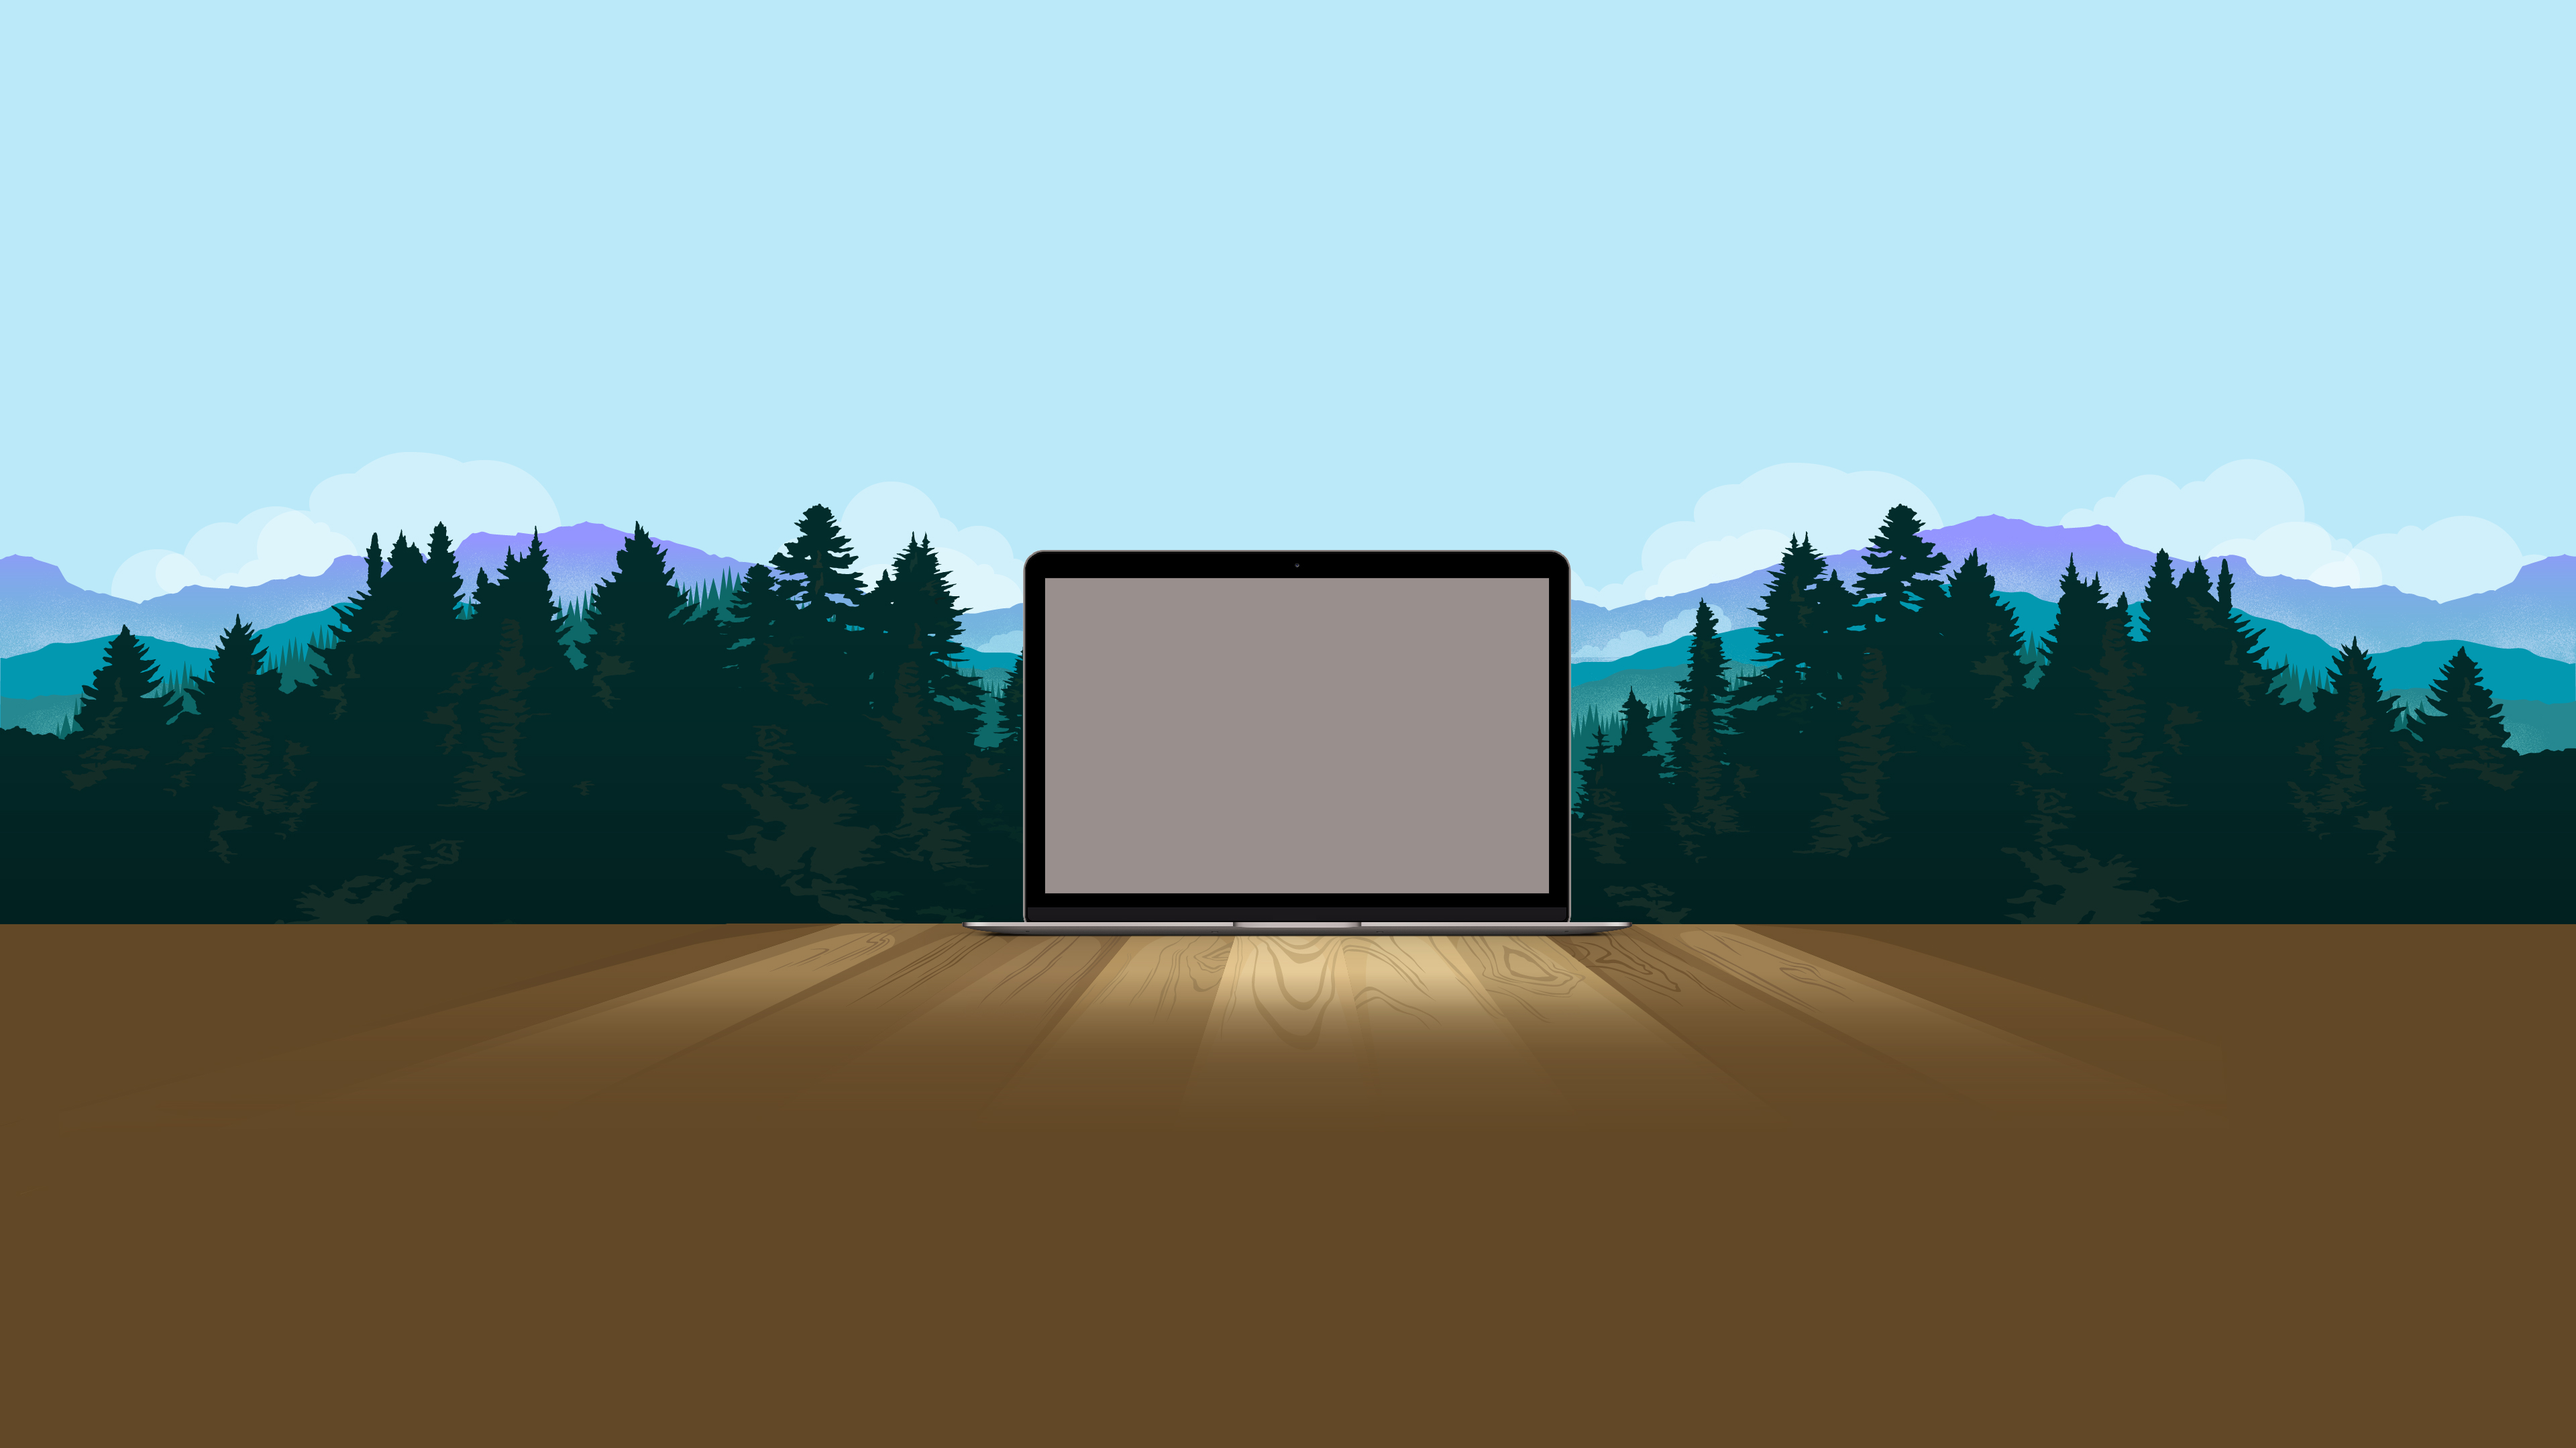
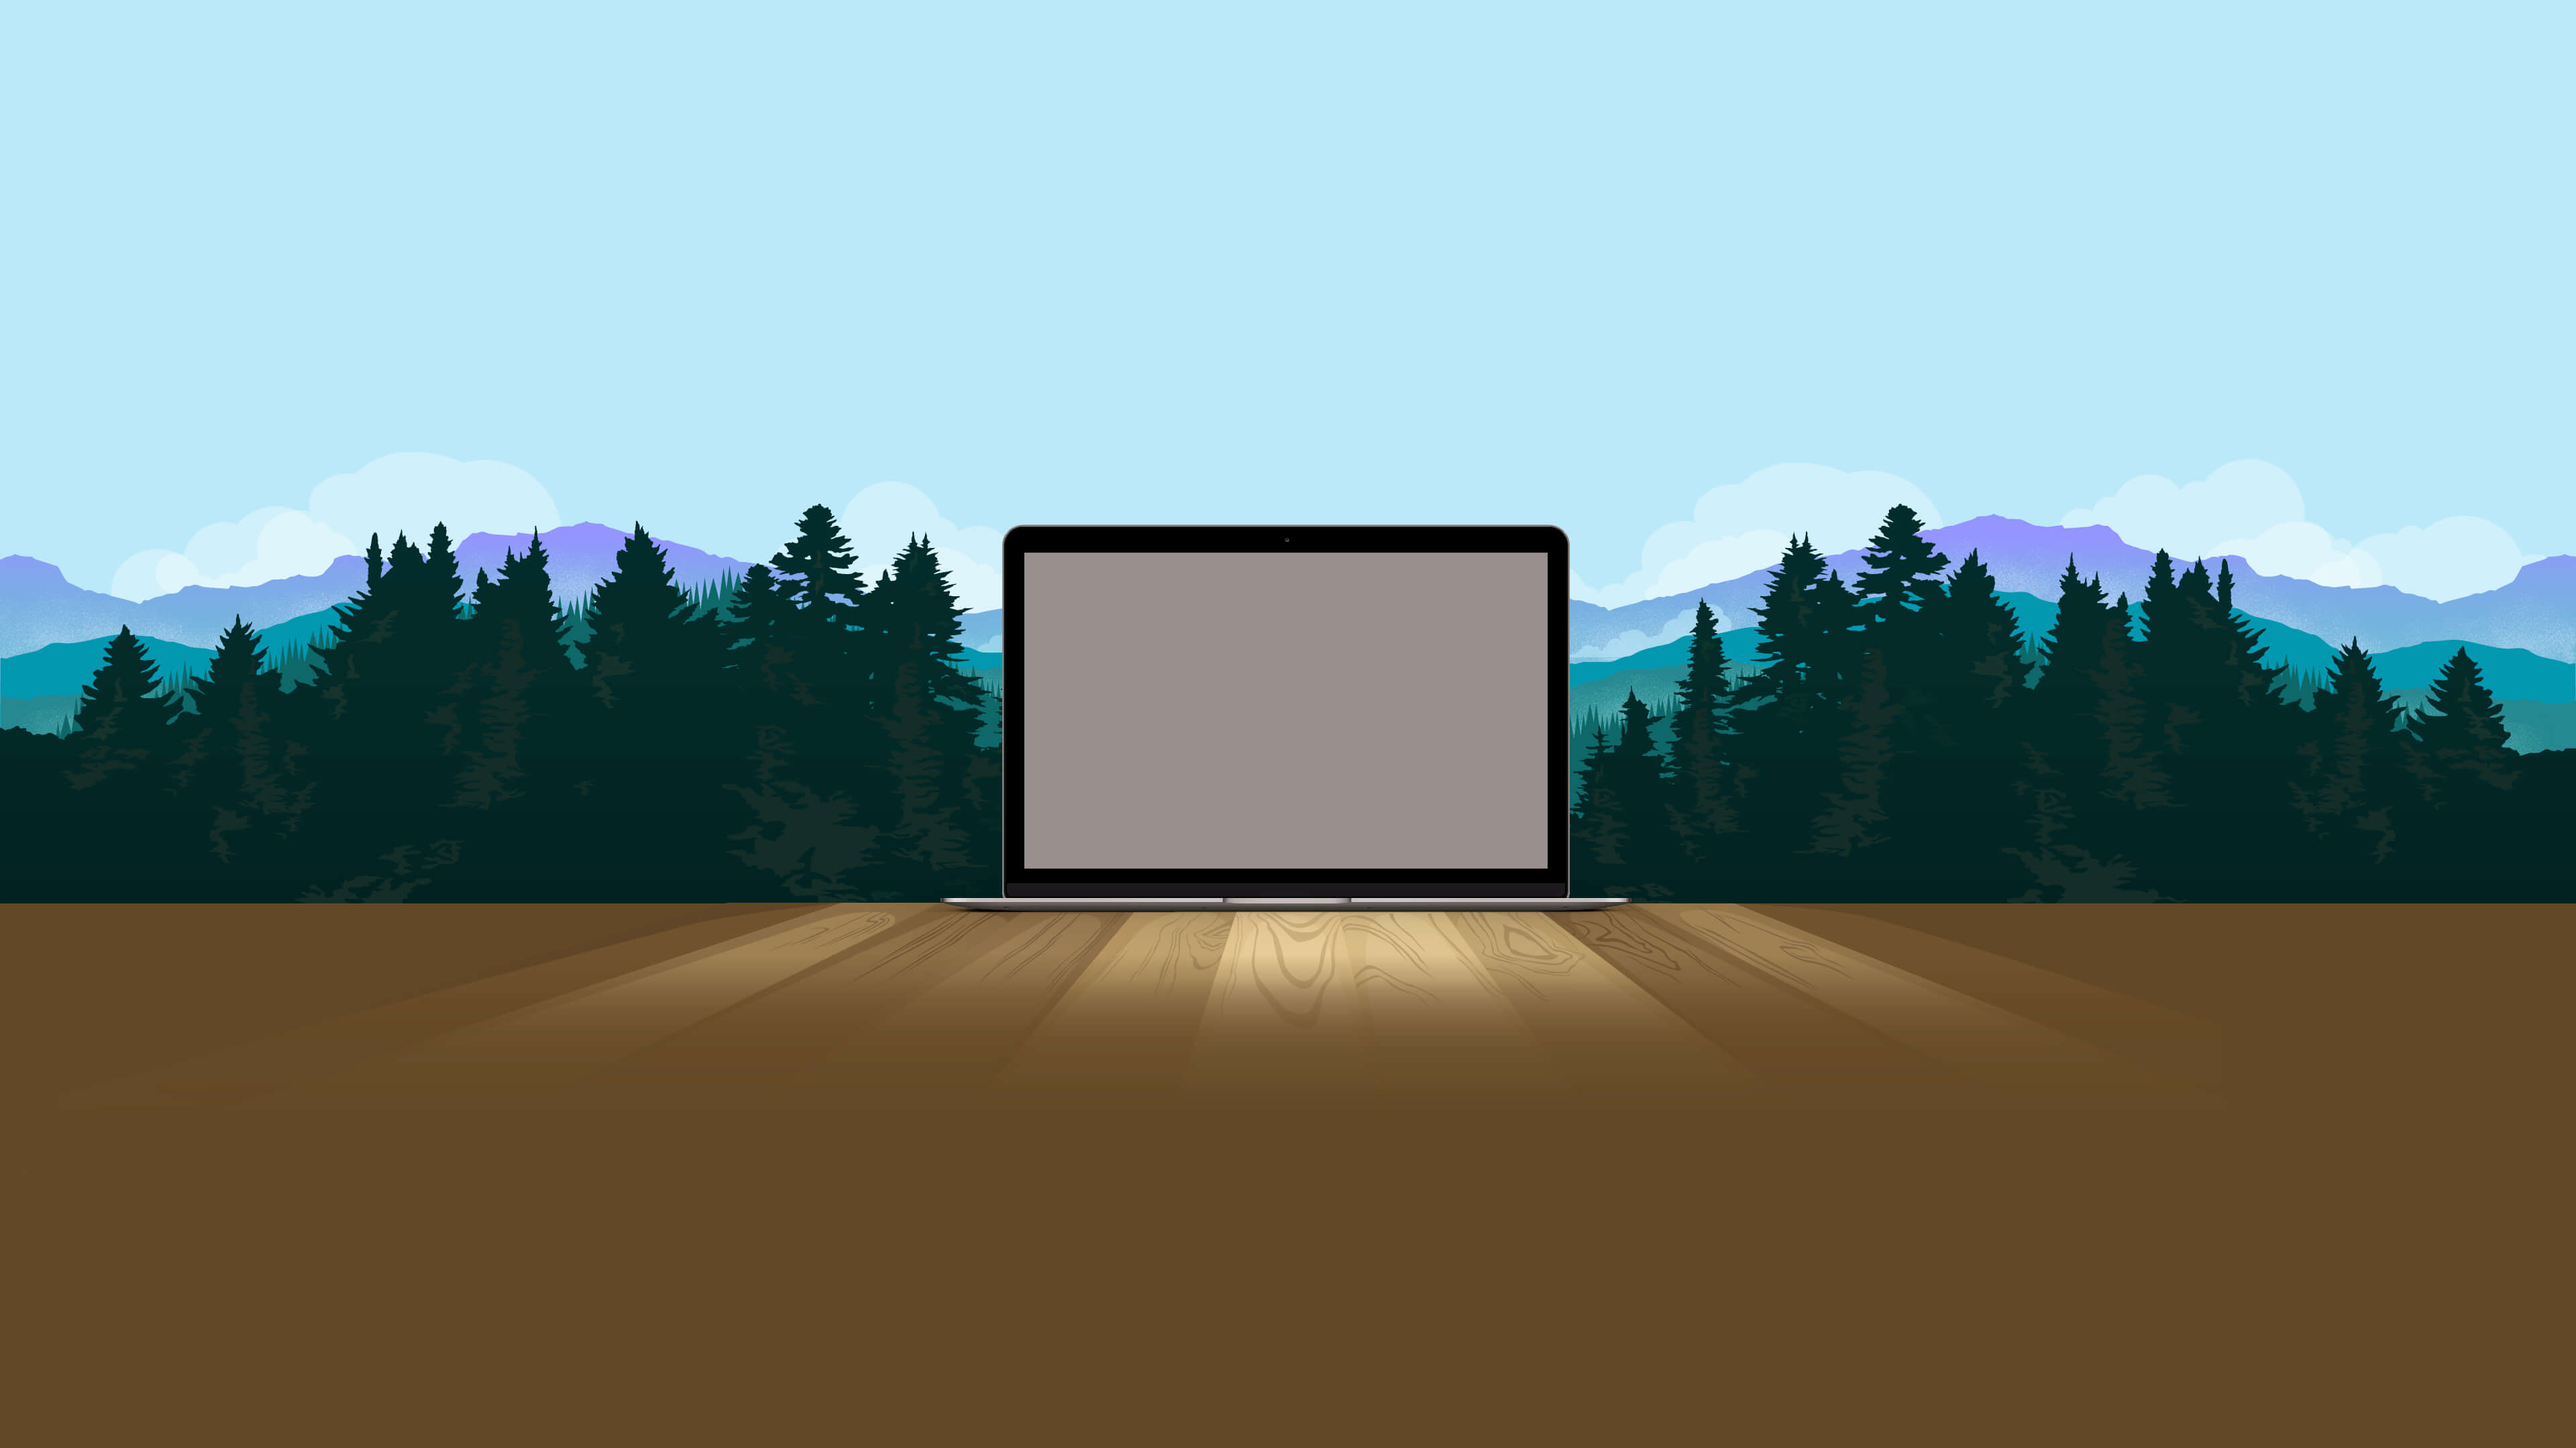
new bkg images

Changed region(s): [[0.0, 0.3414, 1.0, 0.7138]]

diff --git a/src/app/index.scss b/src/app/index.scss
@@ -68,7 +68,7 @@ body {
     overflow: hidden;
     background-color: white;
     position:relative;
-    margin-top:100px;
+    margin-top: 58px;
 
     @media screen and (min-width: $screen-1080p) {
       position: absolute;
@@ -76,11 +76,10 @@ body {
       margin: 30px auto 0 auto;
       left: 50%;
       top: 50%;
-      margin-left: -383px;
-      margin-top: -242px;
+      margin-left: -396px;
+      margin-top: -260px;
     }
 
-    border-radius: 5px;
    }
 
   .monitor-height {
